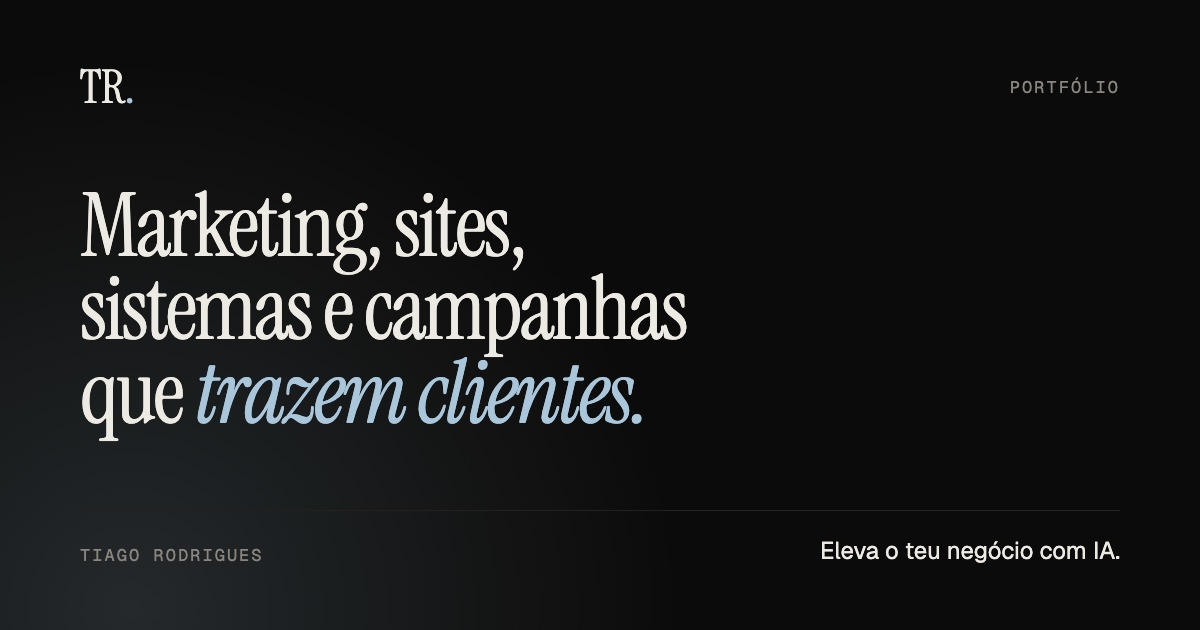
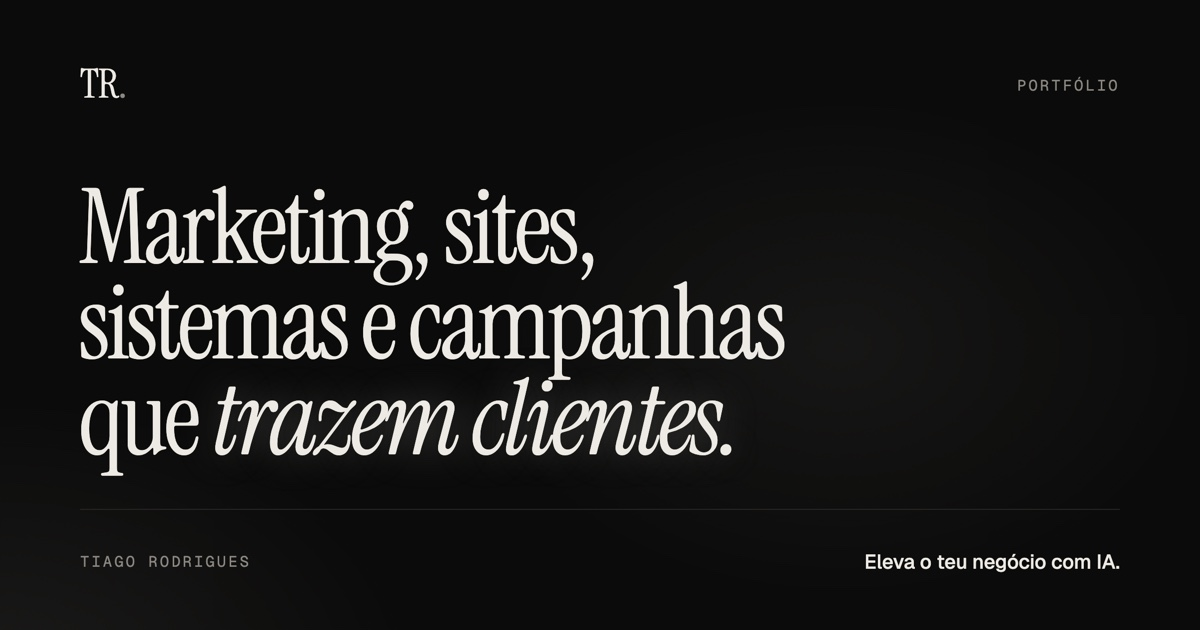
Atualizar site

diff --git a/index.html b/index.html
@@ -17,7 +17,7 @@
     <meta property="og:locale:alternate" content="en_GB" />
     <meta property="og:url" content="https://tiagorodrigues-marketing.github.io/" />
     <meta property="og:title" content="Tiago Rodrigues · Portfólio" />
-    <meta property="og:description" content="Marketing, sites, sistemas e campanhas que trazem clientes." />
+    <meta property="og:description" content="Marketing, sites, sistemas e campanhas que trazem clientes. Websites, CRM, tráfego pago, vídeo e branding para marcas reais." />
     <meta property="og:image" content="https://tiagorodrigues-marketing.github.io/og.jpg" />
     <meta property="og:image:width" content="1200" />
     <meta property="og:image:height" content="630" />
